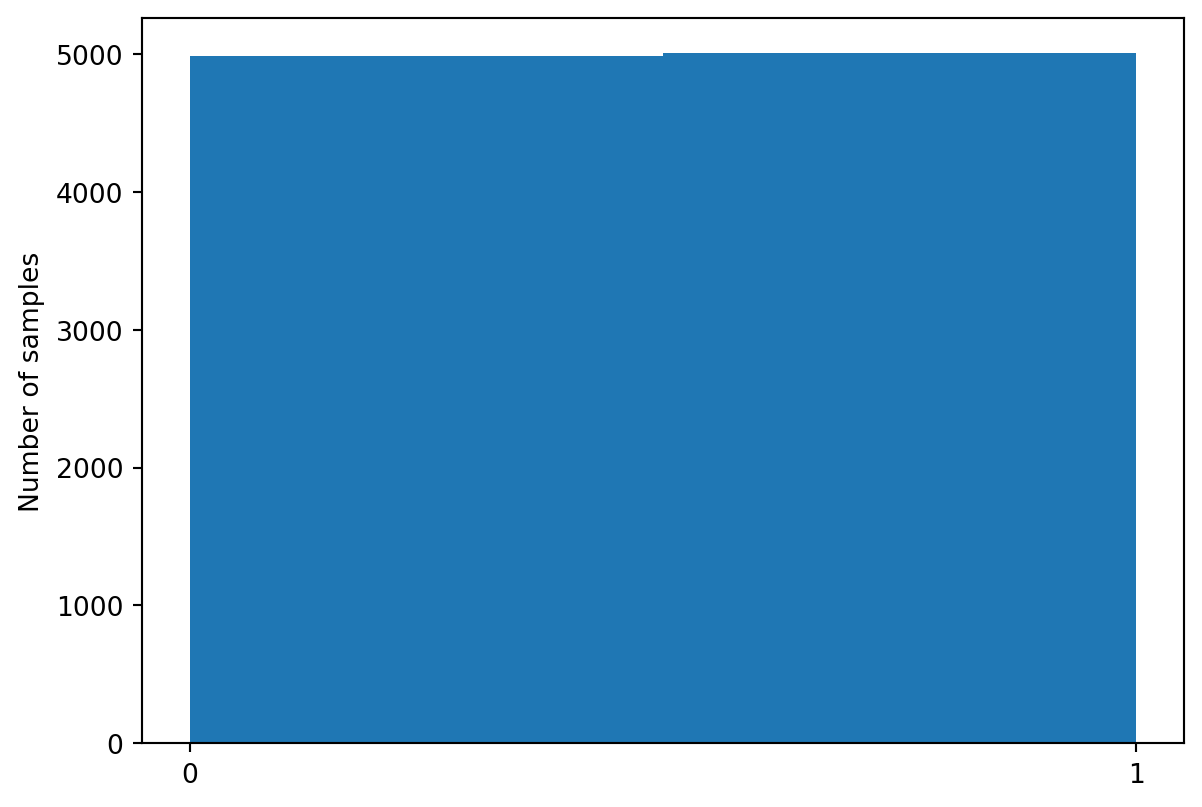
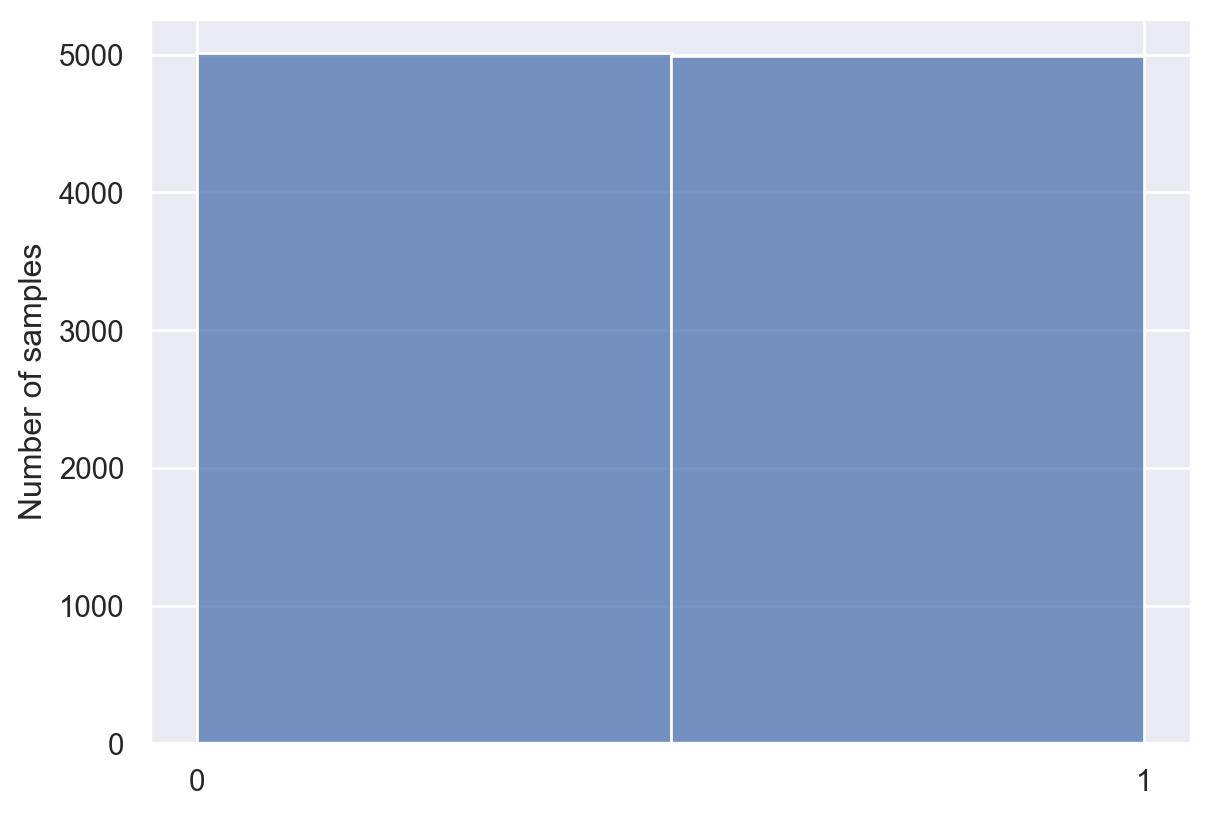
Revisions to Chapter 2

diff --git a/docs/02-bayes.html b/docs/02-bayes.html
@@ -2,7 +2,7 @@
 <html xmlns="http://www.w3.org/1999/xhtml" lang="en" xml:lang="en"><head>
 
 <meta charset="utf-8">
-<meta name="generator" content="quarto-1.3.433">
+<meta name="generator" content="quarto-1.3.450">
 
 <meta name="viewport" content="width=device-width, initial-scale=1.0, user-scalable=yes">
 
@@ -257,7 +257,7 @@ gtag('config', 'G-HG2MG0W08W', { 'anonymize_ip': true});
 
 <header id="title-block-header" class="quarto-title-block default">
 <div class="quarto-title">
-<h1 class="title"><span class="chapter-number">2</span>&nbsp; <span class="chapter-title">Bayesian inference</span></h1>
+<h1 class="title"><span id="bayes" class="quarto-section-identifier"><span class="chapter-number">2</span>&nbsp; <span class="chapter-title">Bayesian inference</span></span></h1>
 </div>
 
 
@@ -272,7 +272,7 @@ gtag('config', 'G-HG2MG0W08W', { 'anonymize_ip': true});
 
 </header>
 
-<p>This chapter reviews some basic probability and Bayesian inference. You might be asking yourself: <em>What does this have to do with psychology?</em> The answer becomes clear when you recognize that most of what we do when we’re making sense of the world is drawing inferences. When you see an ambiguous image, is it a rabbit or a duck? When someone mumbles something, did they say “hello” or “go to hell”? When you take a pill and your headache goes away, did the pill eliminate your headache or did the headache go away on its own?</p>
+<p>This chapter reviews some basic probability and Bayesian inference. You might be asking yourself: <em>What does this have to do with psychology?</em> The answer becomes clear when you recognize that most of what we do when we’re making sense of the world is drawing inferences. When you see an ambiguous image like the one below, is it a rabbit or a duck? When someone mumbles something, did they say “hello” or “go to hell”? When you take a pill and your headache goes away, did the pill eliminate your headache or did the headache go away on its own?</p>
 <div class="quarto-figure quarto-figure-center">
 <figure class="figure">
 <p><img src="images/02/duck-rabbit.png" class="img-fluid figure-img" style="width:70.0%"></p>
@@ -293,8 +293,8 @@ gtag('config', 'G-HG2MG0W08W', { 'anonymize_ip': true});
 <h2 data-number="2.2" class="anchored" data-anchor-id="a-motivating-example-sampling-from-a-bag"><span class="header-section-number">2.2</span> A motivating example: Sampling from a bag 👝</h2>
 <p>Suppose you have a bag full of black and red balls. You can’t see inside the bag and you don’t know how many black and red balls are inside, but you know that there are nine total balls in the bag.</p>
 <p>You want to know how many black balls and red balls there are. There are a finite number of hypotheses: {0 black balls, 1 black ball, 2 black balls, …, 9 black balls}. Let’s call these hypotheses <span class="math inline">\(B_0\)</span>, <span class="math inline">\(B_1\)</span>, etc., respectively.</p>
-<p>You don’t know which hypothesis is true, but you might have some idea which hypotheses are more likely than others. Therefore, it is natural to represent your uncertainty with a probability distribution over the possible unknown states that the world could be in – in this case, the 10 hypotheses. Each hypothesis gets assigned a probability, and the probabilities sum to 1.</p>
-<p>For simplicity, let’s assume that you <em>don’t</em> have any idea which hypotheses are more likely. In other words, you give every hypothesis the same probability: 1/10 = 0.1. This is also called a uniform distribution over hypotheses. This distribution is your prior.</p>
+<p>You don’t know which hypothesis is true, but you might have some idea that some hypotheses are more likely than others. It’s natural to represent your uncertainty with a probability distribution over the possible unknown states that the world could be in – in this case, the ten hypotheses. Each hypothesis gets assigned a probability and the probabilities sum to 1.</p>
+<p>For starters, let’s assume that you <em>don’t</em> have any idea which hypotheses are more likely. In other words, you give every hypothesis the same probability: 1/10 = 0.1. This is called a uniform distribution over hypotheses. This distribution is your prior.</p>
 <p>Now suppose you put your hand in the bag and pull out a ball at random. The possible observations are: <code>{black, red}</code>, Let’s call them <span class="math inline">\(B\)</span> and <span class="math inline">\(R\)</span>, respectively. The probability of observing each color depends on which hypothesis is true, i.e., how many balls of each color are in the bag. For instance, if <span class="math inline">\(B_0\)</span> is true (there are 0 black balls in the bag), then the probability of observing a red ball is 1 (<span class="math inline">\(P(R|B_0)=1\)</span>), and the probability of observing a black ball is 0 (<span class="math inline">\(P(B|B_0)=0\)</span>). These expressions that tell us how probable our observations are, given a specific hypothesis, are your likelihoods.</p>
 <section id="sampling-from-the-generative-model" class="level3" data-number="2.2.1">
 <h3 data-number="2.2.1" class="anchored" data-anchor-id="sampling-from-the-generative-model"><span class="header-section-number">2.2.1</span> Sampling from the generative model</h3>
@@ -304,7 +304,7 @@ gtag('config', 'G-HG2MG0W08W', { 'anonymize_ip': true});
 <li>Sample a hypothesis from the prior.</li>
 <li>Sample data given the hypothesis, using the likelihood.</li>
 </ol>
-<p>Let’s first create a vector with the probability of each hypothesis:</p>
+<p>Let’s first create an array with the probability of each hypothesis:</p>
 <div class="cell" data-execution_count="1">
 <div class="sourceCode cell-code" id="cb1"><pre class="sourceCode python code-with-copy"><code class="sourceCode python"><span id="cb1-1"><a href="#cb1-1" aria-hidden="true" tabindex="-1"></a><span class="im">import</span> numpy <span class="im">as</span> np</span>
 <span id="cb1-2"><a href="#cb1-2" aria-hidden="true" tabindex="-1"></a><span class="im">import</span> random</span>
@@ -317,7 +317,7 @@ gtag('config', 'G-HG2MG0W08W', { 'anonymize_ip': true});
 <pre><code>[0.1 0.1 0.1 0.1 0.1 0.1 0.1 0.1 0.1 0.1]</code></pre>
 </div>
 </div>
-<p>Now we’ll do the first step: create a vector of 10000 hypotheses sampled from the prior:</p>
+<p>Now we’ll do the first step: create an array of 10000 hypotheses sampled from the prior:</p>
 <div class="cell" data-execution_count="2">
 <div class="sourceCode cell-code" id="cb3"><pre class="sourceCode python code-with-copy"><code class="sourceCode python"><span id="cb3-1"><a href="#cb3-1" aria-hidden="true" tabindex="-1"></a>prior_samples <span class="op">=</span> np.array(random.choices(np.arange(<span class="dv">0</span>,<span class="dv">10</span>,<span class="dv">1</span>),</span>
 <span id="cb3-2"><a href="#cb3-2" aria-hidden="true" tabindex="-1"></a>                   weights <span class="op">=</span> h_priors, </span>
@@ -330,17 +330,19 @@ gtag('config', 'G-HG2MG0W08W', { 'anonymize_ip': true});
 </div>
 <p>Here, each number corresponds to one hypothesis: 0 corresponds to <span class="math inline">\(B_0\)</span>, 1 to <span class="math inline">\(B_1\)</span>, and so on. Each sample represents one possible way (a hypothesis) the world could be. Since the prior was uniform (each hypothesis had the same probability), each hypothesis appears about equally often. We can plot all the samples to verify:</p>
 <div class="cell" data-execution_count="3">
-<div class="sourceCode cell-code" id="cb5"><pre class="sourceCode python code-with-copy"><code class="sourceCode python"><span id="cb5-1"><a href="#cb5-1" aria-hidden="true" tabindex="-1"></a><span class="im">import</span> matplotlib.pyplot <span class="im">as</span> plt</span>
-<span id="cb5-2"><a href="#cb5-2" aria-hidden="true" tabindex="-1"></a></span>
-<span id="cb5-3"><a href="#cb5-3" aria-hidden="true" tabindex="-1"></a>fig, ax <span class="op">=</span> plt.subplots()</span>
-<span id="cb5-4"><a href="#cb5-4" aria-hidden="true" tabindex="-1"></a>n, bins, patches <span class="op">=</span> ax.hist(prior_samples, bins<span class="op">=</span><span class="dv">10</span>)</span>
-<span id="cb5-5"><a href="#cb5-5" aria-hidden="true" tabindex="-1"></a>ax.set_xlabel(<span class="st">'Prior sample'</span>)</span>
-<span id="cb5-6"><a href="#cb5-6" aria-hidden="true" tabindex="-1"></a>ax.set_ylabel(<span class="st">'Number of samples'</span>)</span></code><button title="Copy to Clipboard" class="code-copy-button"><i class="bi"></i></button></pre></div>
+<div class="sourceCode cell-code" id="cb5"><pre class="sourceCode python code-with-copy"><code class="sourceCode python"><span id="cb5-1"><a href="#cb5-1" aria-hidden="true" tabindex="-1"></a><span class="im">import</span> seaborn <span class="im">as</span> sns</span>
+<span id="cb5-2"><a href="#cb5-2" aria-hidden="true" tabindex="-1"></a><span class="im">import</span> matplotlib.pyplot <span class="im">as</span> plt</span>
+<span id="cb5-3"><a href="#cb5-3" aria-hidden="true" tabindex="-1"></a></span>
+<span id="cb5-4"><a href="#cb5-4" aria-hidden="true" tabindex="-1"></a>sns.set_theme()</span>
+<span id="cb5-5"><a href="#cb5-5" aria-hidden="true" tabindex="-1"></a>fig, ax <span class="op">=</span> plt.subplots()</span>
+<span id="cb5-6"><a href="#cb5-6" aria-hidden="true" tabindex="-1"></a>sns.histplot(prior_samples, bins<span class="op">=</span><span class="dv">10</span>)</span>
+<span id="cb5-7"><a href="#cb5-7" aria-hidden="true" tabindex="-1"></a>ax.set_xlabel(<span class="st">'Prior sample'</span>)</span>
+<span id="cb5-8"><a href="#cb5-8" aria-hidden="true" tabindex="-1"></a>ax.set_ylabel(<span class="st">'Number of samples'</span>)</span></code><button title="Copy to Clipboard" class="code-copy-button"><i class="bi"></i></button></pre></div>
 <div class="cell-output cell-output-display" data-execution_count="3">
 <pre><code>Text(0, 0.5, 'Number of samples')</code></pre>
 </div>
 <div class="cell-output cell-output-display">
-<p><img src="02-bayes_files/figure-html/cell-4-output-2.png" width="601" height="422"></p>
+<p><img src="02-bayes_files/figure-html/cell-4-output-2.png" width="605" height="428"></p>
 </div>
 </div>
 <p>Now for the next step. For each sample in <code>prior_samples</code>, we want to sample an observation. To do that, let’s pause for a second and think about the probability of pulling a black ball given that hypothesis <span class="math inline">\(B_3\)</span> is true, for example. This means that there are 3 black balls and 6 red balls in the bag. So the probability of pulling a black ball from the bag at random will be 3/9.</p>
@@ -358,25 +360,25 @@ gtag('config', 'G-HG2MG0W08W', { 'anonymize_ip': true});
 <span id="cb9-2"><a href="#cb9-2" aria-hidden="true" tabindex="-1"></a>                                  p <span class="op">=</span> p_black)</span>
 <span id="cb9-3"><a href="#cb9-3" aria-hidden="true" tabindex="-1"></a><span class="bu">print</span>(ball_samples[<span class="dv">0</span>:<span class="dv">9</span>])</span></code><button title="Copy to Clipboard" class="code-copy-button"><i class="bi"></i></button></pre></div>
 <div class="cell-output cell-output-stdout">
-<pre><code>[1 0 1 0 1 1 0 1 1]</code></pre>
+<pre><code>[0 1 0 0 1 1 1 1 1]</code></pre>
 </div>
 </div>
 <p><code>ball_samples</code> is 1 for black and 0 for red. Once again, let’s plot all our samples.</p>
 <div class="cell" data-execution_count="6">
 <div class="sourceCode cell-code" id="cb11"><pre class="sourceCode python code-with-copy"><code class="sourceCode python"><span id="cb11-1"><a href="#cb11-1" aria-hidden="true" tabindex="-1"></a>fig, ax <span class="op">=</span> plt.subplots()</span>
-<span id="cb11-2"><a href="#cb11-2" aria-hidden="true" tabindex="-1"></a>n, bins, patches <span class="op">=</span> ax.hist(ball_samples, bins<span class="op">=</span><span class="dv">2</span>)</span>
-<span id="cb11-3"><a href="#cb11-3" aria-hidden="true" tabindex="-1"></a>ax.set_xticks([<span class="dv">0</span>,<span class="dv">1</span>])</span>
-<span id="cb11-4"><a href="#cb11-4" aria-hidden="true" tabindex="-1"></a>ax.set_ylabel(<span class="st">'Number of samples'</span>)</span></code><button title="Copy to Clipboard" class="code-copy-button"><i class="bi"></i></button></pre></div>
+<span id="cb11-2"><a href="#cb11-2" aria-hidden="true" tabindex="-1"></a>sns.histplot(ball_samples, bins<span class="op">=</span><span class="dv">2</span>)</span>
+<span id="cb11-3"><a href="#cb11-3" aria-hidden="true" tabindex="-1"></a>ax.set_xticks(ticks<span class="op">=</span>[<span class="dv">0</span>,<span class="dv">1</span>])</span>
+<span id="cb11-4"><a href="#cb11-4" aria-hidden="true" tabindex="-1"></a>ax.set_ylabel(<span class="st">"Number of samples"</span>)</span></code><button title="Copy to Clipboard" class="code-copy-button"><i class="bi"></i></button></pre></div>
 <div class="cell-output cell-output-display" data-execution_count="6">
 <pre><code>Text(0, 0.5, 'Number of samples')</code></pre>
 </div>
 <div class="cell-output cell-output-display">
-<p><img src="02-bayes_files/figure-html/cell-7-output-2.png" width="601" height="404"></p>
+<p><img src="02-bayes_files/figure-html/cell-7-output-2.png" width="605" height="408"></p>
 </div>
 </div>
-<p>You can think of this plot representing our overall beliefs about the number of red and black balls in the bag, averaged over all possible hypotheses.</p>
+<p>You can think of this plot representing your overall beliefs about the number of red and black balls in the bag, averaged over all possible hypotheses.</p>
 <p>Not surprisingly, we got about equal numbers of red and black balls. This makes sense: We didn’t have any prior expectations about whether red or black balls were more likely in the bag.</p>
-<p>How should our beliefs change after we pull a ball out of the bag? That is, how should we respond to evidence?</p>
+<p>How should your beliefs change after you pull a ball out of the bag? That is, how should you respond to evidence?</p>
 </section>
 </section>
 <section id="bayesian-updating-learning-from-evidence" class="level2" data-number="2.3">
@@ -385,8 +387,8 @@ gtag('config', 'G-HG2MG0W08W', { 'anonymize_ip': true});
 <section id="applying-bayess-rule-to-the-bag-case" class="level3" data-number="2.3.1">
 <h3 data-number="2.3.1" class="anchored" data-anchor-id="applying-bayess-rule-to-the-bag-case"><span class="header-section-number">2.3.1</span> Applying Bayes’s rule to the bag case</h3>
 <p>Suppose you have a uniform prior distribution over the 10 hypotheses about balls in the bag. Now you pick a ball and it’s black. Given this observation <span class="math inline">\(B\)</span>, how should you change the probabilities you give to each hypothesis?</p>
-<p>Intuitively, you should now give a little bit more probability to those hypotheses that have more black balls than red balls, because those are the hypotheses that make your observations more likely. Moreover, you can safely exclude hypothesis <span class="math inline">\(B_0\)</span>, because your observation would be impossible if <span class="math inline">\(B_0\)</span> were true. Let’s calculate this with Bayes’s rule.</p>
-<p>The prior is the vector <code>h_priors</code> defined above. Given that we have observed <span class="math inline">\(B\)</span>, the likelihood should tell us, for each hypothesis, the probability of <span class="math inline">\(B\)</span> given that hypothesis. For example, for <span class="math inline">\(B_9\)</span>, the likelihood <span class="math inline">\(P(B|B_9) = 1\)</span>. For <span class="math inline">\(B_8\)</span>, <span class="math inline">\(P(B|B_8) = 8/9\)</span>, because 8 of the 9 balls are black.</p>
+<p>Intuitively, you should now give a little bit more probability to those hypotheses that have more black balls than red balls, because those are the hypotheses that make your observations more likely. Moreover, you can definitively exclude hypothesis <span class="math inline">\(B_0\)</span>, because your observation would be impossible if <span class="math inline">\(B_0\)</span> were true. Let’s calculate this with Bayes’s rule.</p>
+<p>The prior is the array <code>h_priors</code> defined above. Given that we have observed <span class="math inline">\(B\)</span>, the likelihood should tell us, for each hypothesis, the probability of <span class="math inline">\(B\)</span> given that hypothesis. For example, for <span class="math inline">\(B_9\)</span>, the likelihood <span class="math inline">\(P(B|B_9) = 1\)</span>. For <span class="math inline">\(B_8\)</span>, <span class="math inline">\(P(B|B_8) = 8/9\)</span>, because 8 of the 9 balls are black.</p>
 <p>Generalizing this idea, <span class="math inline">\(P(B|B_n) = n/9\)</span>. We can therefore compute the likelihoods for all hypotheses in a vector:</p>
 <div class="cell" data-execution_count="7">
 <div class="sourceCode cell-code" id="cb13"><pre class="sourceCode python code-with-copy"><code class="sourceCode python"><span id="cb13-1"><a href="#cb13-1" aria-hidden="true" tabindex="-1"></a>likelihoods <span class="op">=</span> np.arange(<span class="dv">0</span>,<span class="dv">10</span>,<span class="dv">1</span>) <span class="op">/</span> <span class="dv">9</span></span>
@@ -453,35 +455,34 @@ P(B9|B) = 0.2</code></pre>
 </div>
 <p>Finally, let’s plot the posterior probabilities.</p>
 <div class="cell" data-execution_count="11">
-<div class="sourceCode cell-code" id="cb21"><pre class="sourceCode python code-with-copy"><code class="sourceCode python"><span id="cb21-1"><a href="#cb21-1" aria-hidden="true" tabindex="-1"></a>fig, ax <span class="op">=</span> plt.subplots()</span>
-<span id="cb21-2"><a href="#cb21-2" aria-hidden="true" tabindex="-1"></a>hypotheses <span class="op">=</span> (<span class="st">'B0'</span>, <span class="st">'B1'</span>, <span class="st">'B2'</span>, <span class="st">'B3'</span>, <span class="st">'B4'</span>,</span>
-<span id="cb21-3"><a href="#cb21-3" aria-hidden="true" tabindex="-1"></a>              <span class="st">'B5'</span>, <span class="st">'B6'</span>, <span class="st">'B7'</span>, <span class="st">'B8'</span>, <span class="st">'B9'</span>)</span>
-<span id="cb21-4"><a href="#cb21-4" aria-hidden="true" tabindex="-1"></a>y_pos <span class="op">=</span> np.arange(<span class="bu">len</span>(hypotheses))</span>
-<span id="cb21-5"><a href="#cb21-5" aria-hidden="true" tabindex="-1"></a></span>
-<span id="cb21-6"><a href="#cb21-6" aria-hidden="true" tabindex="-1"></a>ax.barh(y_pos, posteriors, align<span class="op">=</span><span class="st">'center'</span>)</span>
-<span id="cb21-7"><a href="#cb21-7" aria-hidden="true" tabindex="-1"></a>ax.set_yticks(y_pos)</span>
-<span id="cb21-8"><a href="#cb21-8" aria-hidden="true" tabindex="-1"></a>ax.set_yticklabels(hypotheses)</span>
-<span id="cb21-9"><a href="#cb21-9" aria-hidden="true" tabindex="-1"></a>ax.set_xlabel(<span class="st">'Probability'</span>)</span>
-<span id="cb21-10"><a href="#cb21-10" aria-hidden="true" tabindex="-1"></a>ax.set_ylabel(<span class="st">'Hypothesis'</span>)</span></code><button title="Copy to Clipboard" class="code-copy-button"><i class="bi"></i></button></pre></div>
+<div class="sourceCode cell-code" id="cb21"><pre class="sourceCode python code-with-copy"><code class="sourceCode python"><span id="cb21-1"><a href="#cb21-1" aria-hidden="true" tabindex="-1"></a>hypotheses <span class="op">=</span> (<span class="st">'B0'</span>, <span class="st">'B1'</span>, <span class="st">'B2'</span>, <span class="st">'B3'</span>, <span class="st">'B4'</span>,</span>
+<span id="cb21-2"><a href="#cb21-2" aria-hidden="true" tabindex="-1"></a>              <span class="st">'B5'</span>, <span class="st">'B6'</span>, <span class="st">'B7'</span>, <span class="st">'B8'</span>, <span class="st">'B9'</span>)</span>
+<span id="cb21-3"><a href="#cb21-3" aria-hidden="true" tabindex="-1"></a>y_pos <span class="op">=</span> np.arange(<span class="bu">len</span>(hypotheses))</span>
+<span id="cb21-4"><a href="#cb21-4" aria-hidden="true" tabindex="-1"></a></span>
+<span id="cb21-5"><a href="#cb21-5" aria-hidden="true" tabindex="-1"></a>fig, ax <span class="op">=</span> plt.subplots()</span>
+<span id="cb21-6"><a href="#cb21-6" aria-hidden="true" tabindex="-1"></a>sns.barplot(posteriors, orient<span class="op">=</span><span class="st">"y"</span>)</span>
+<span id="cb21-7"><a href="#cb21-7" aria-hidden="true" tabindex="-1"></a>ax.set_yticks(ticks <span class="op">=</span> y_pos, labels<span class="op">=</span>hypotheses)</span>
+<span id="cb21-8"><a href="#cb21-8" aria-hidden="true" tabindex="-1"></a>ax.set_ylabel(<span class="st">'Hypothesis'</span>)</span>
+<span id="cb21-9"><a href="#cb21-9" aria-hidden="true" tabindex="-1"></a>ax.set_xlabel(<span class="st">'Probability'</span>)</span></code><button title="Copy to Clipboard" class="code-copy-button"><i class="bi"></i></button></pre></div>
 <div class="cell-output cell-output-display" data-execution_count="11">
-<pre><code>Text(0, 0.5, 'Hypothesis')</code></pre>
+<pre><code>Text(0.5, 0, 'Probability')</code></pre>
 </div>
 <div class="cell-output cell-output-display">
-<p><img src="02-bayes_files/figure-html/cell-12-output-2.png" width="585" height="422"></p>
+<p><img src="02-bayes_files/figure-html/cell-12-output-2.png" width="591" height="428"></p>
 </div>
 </div>
 </section>
 <section id="normalization" class="level3" data-number="2.3.2">
 <h3 data-number="2.3.2" class="anchored" data-anchor-id="normalization"><span class="header-section-number">2.3.2</span> How to avoid calculating P(d)</h3>
 <p>In practice, we generally do not need to calculate the <span class="math inline">\(P(d)\)</span> (the denominator in Bayes’s rule) explicitly. I’ll give you the general idea why in this section.</p>
-<p>First, we create a vector of prior probabilities, which has as many components as there are hypotheses. We’ll just reuse <code>h_priors</code>. Note that the probabilities sum to 1, as they should because it’s a probability distribution.</p>
+<p>First, we create an array of prior probabilities, which has as many components as there are hypotheses. We’ll just reuse <code>h_priors</code>. Note that the probabilities sum to 1, as they should because it’s a probability distribution.</p>
 <div class="cell" data-execution_count="12">
 <div class="sourceCode cell-code" id="cb23"><pre class="sourceCode python code-with-copy"><code class="sourceCode python"><span id="cb23-1"><a href="#cb23-1" aria-hidden="true" tabindex="-1"></a>h_priors</span></code><button title="Copy to Clipboard" class="code-copy-button"><i class="bi"></i></button></pre></div>
 <div class="cell-output cell-output-display" data-execution_count="12">
 <pre><code>array([0.1, 0.1, 0.1, 0.1, 0.1, 0.1, 0.1, 0.1, 0.1, 0.1])</code></pre>
 </div>
 </div>
-<p>Next, we create a likelihood array. When we did calculations above, we only had a vector with the likelihoods for a specific observation. However, we would like to have something that encodes the likelihood function for each possible observation given each possible hypothesis, rather than just for a specific observation.</p>
+<p>Next, we create a likelihood array. When we did calculations above, we only had an array with the likelihoods for a specific observation. However, we would like to have something that encodes the likelihood function for each possible observation given each possible hypothesis, rather than just for a specific observation.</p>
 <p>In this example, there are two possible observations: <span class="math inline">\(B\)</span> and <span class="math inline">\(R\)</span>. We can encode the likelihood as an <span class="math inline">\(m \times n\)</span> array where <span class="math inline">\(m\)</span> is the number of hypotheses and <span class="math inline">\(n\)</span> is the number of possible observations. In our case: <span class="math inline">\(10 \times 2\)</span>.</p>
 <div class="cell" data-execution_count="13">
 <div class="sourceCode cell-code" id="cb25"><pre class="sourceCode python code-with-copy"><code class="sourceCode python"><span id="cb25-1"><a href="#cb25-1" aria-hidden="true" tabindex="-1"></a>likelihood_array <span class="op">=</span> np.array((np.arange(<span class="dv">0</span>,<span class="dv">10</span>,<span class="dv">1</span>) <span class="op">/</span> <span class="dv">9</span>,</span>
@@ -556,7 +557,7 @@ Note
 <h2 data-number="2.4" class="anchored" data-anchor-id="bayes-exercises"><span class="header-section-number">2.4</span> Exercises 📝</h2>
 <section id="taxi-cabs" class="level3" data-number="2.4.1">
 <h3 data-number="2.4.1" class="anchored" data-anchor-id="taxi-cabs"><span class="header-section-number">2.4.1</span> Taxi cabs</h3>
-<p>80% of the taxi cabs in Simpletown are green and 20% are yellow. An hit-and-run accident happened at night involving a taxi. A witness claimed that the taxi was yellow. After extensive testing, it is determined that the witness can correctly identify the color of a taxi only 75% of the time under conditions like the ones present during the accident. What is the probability that the taxi was yellow?</p>
+<p>80% of the taxi cabs in Simpletown are green and 20% are yellow<a href="#fn1" class="footnote-ref" id="fnref1" role="doc-noteref"><sup>1</sup></a>. A hit-and-run accident happened at night involving a taxi. A witness claimed that the taxi was yellow. After extensive testing, it is determined that the witness can correctly identify the color of a taxi only 75% of the time under conditions like the ones present during the accident. What is the probability that the taxi was yellow?</p>
 </section>
 <section id="flipping-coins" class="level3" data-number="2.4.2">
 <h3 data-number="2.4.2" class="anchored" data-anchor-id="flipping-coins"><span class="header-section-number">2.4.2</span> Flipping coins</h3>
@@ -616,6 +617,12 @@ P(h_1|d) &amp;= \frac{P(d|h_1) P(h_1)}{P(d)} \\
 
 </section>
 </section>
+</section>
+<section id="footnotes" class="footnotes footnotes-end-of-document" role="doc-endnotes">
+<hr>
+<ol>
+<li id="fn1"><p>After the protracted and aptly named “color wars” of 2113-2114, the previously dominant (and ruthless) orange cabs were wiped from existence. For the purposes of this problem, you may ignore them.<a href="#fnref1" class="footnote-back" role="doc-backlink">↩</a></p></li>
+</ol>
 </section>
 
 </main> <!-- /main -->
